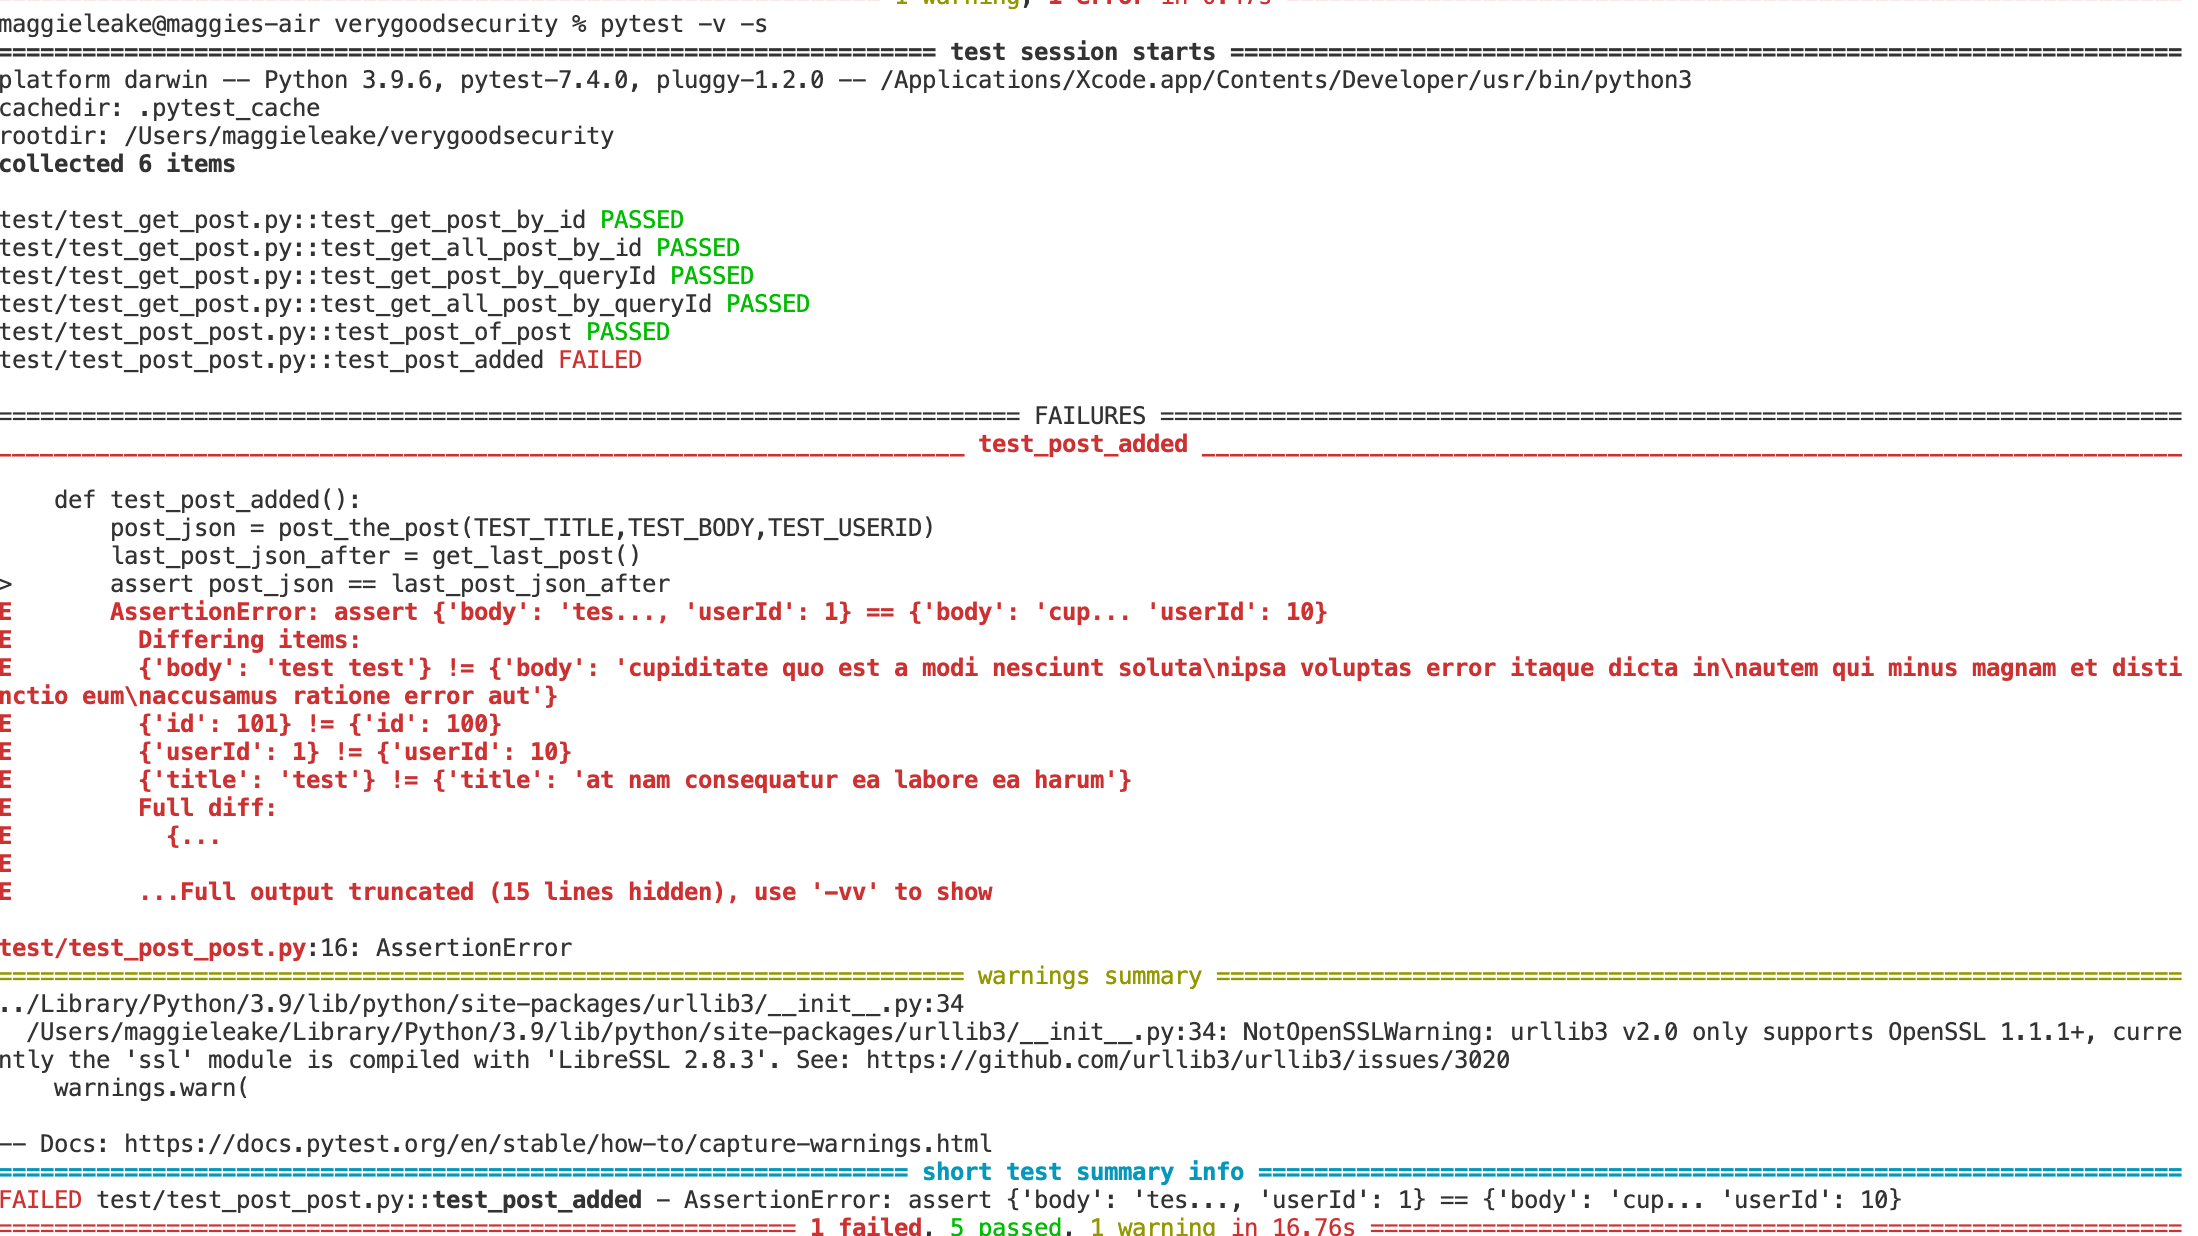
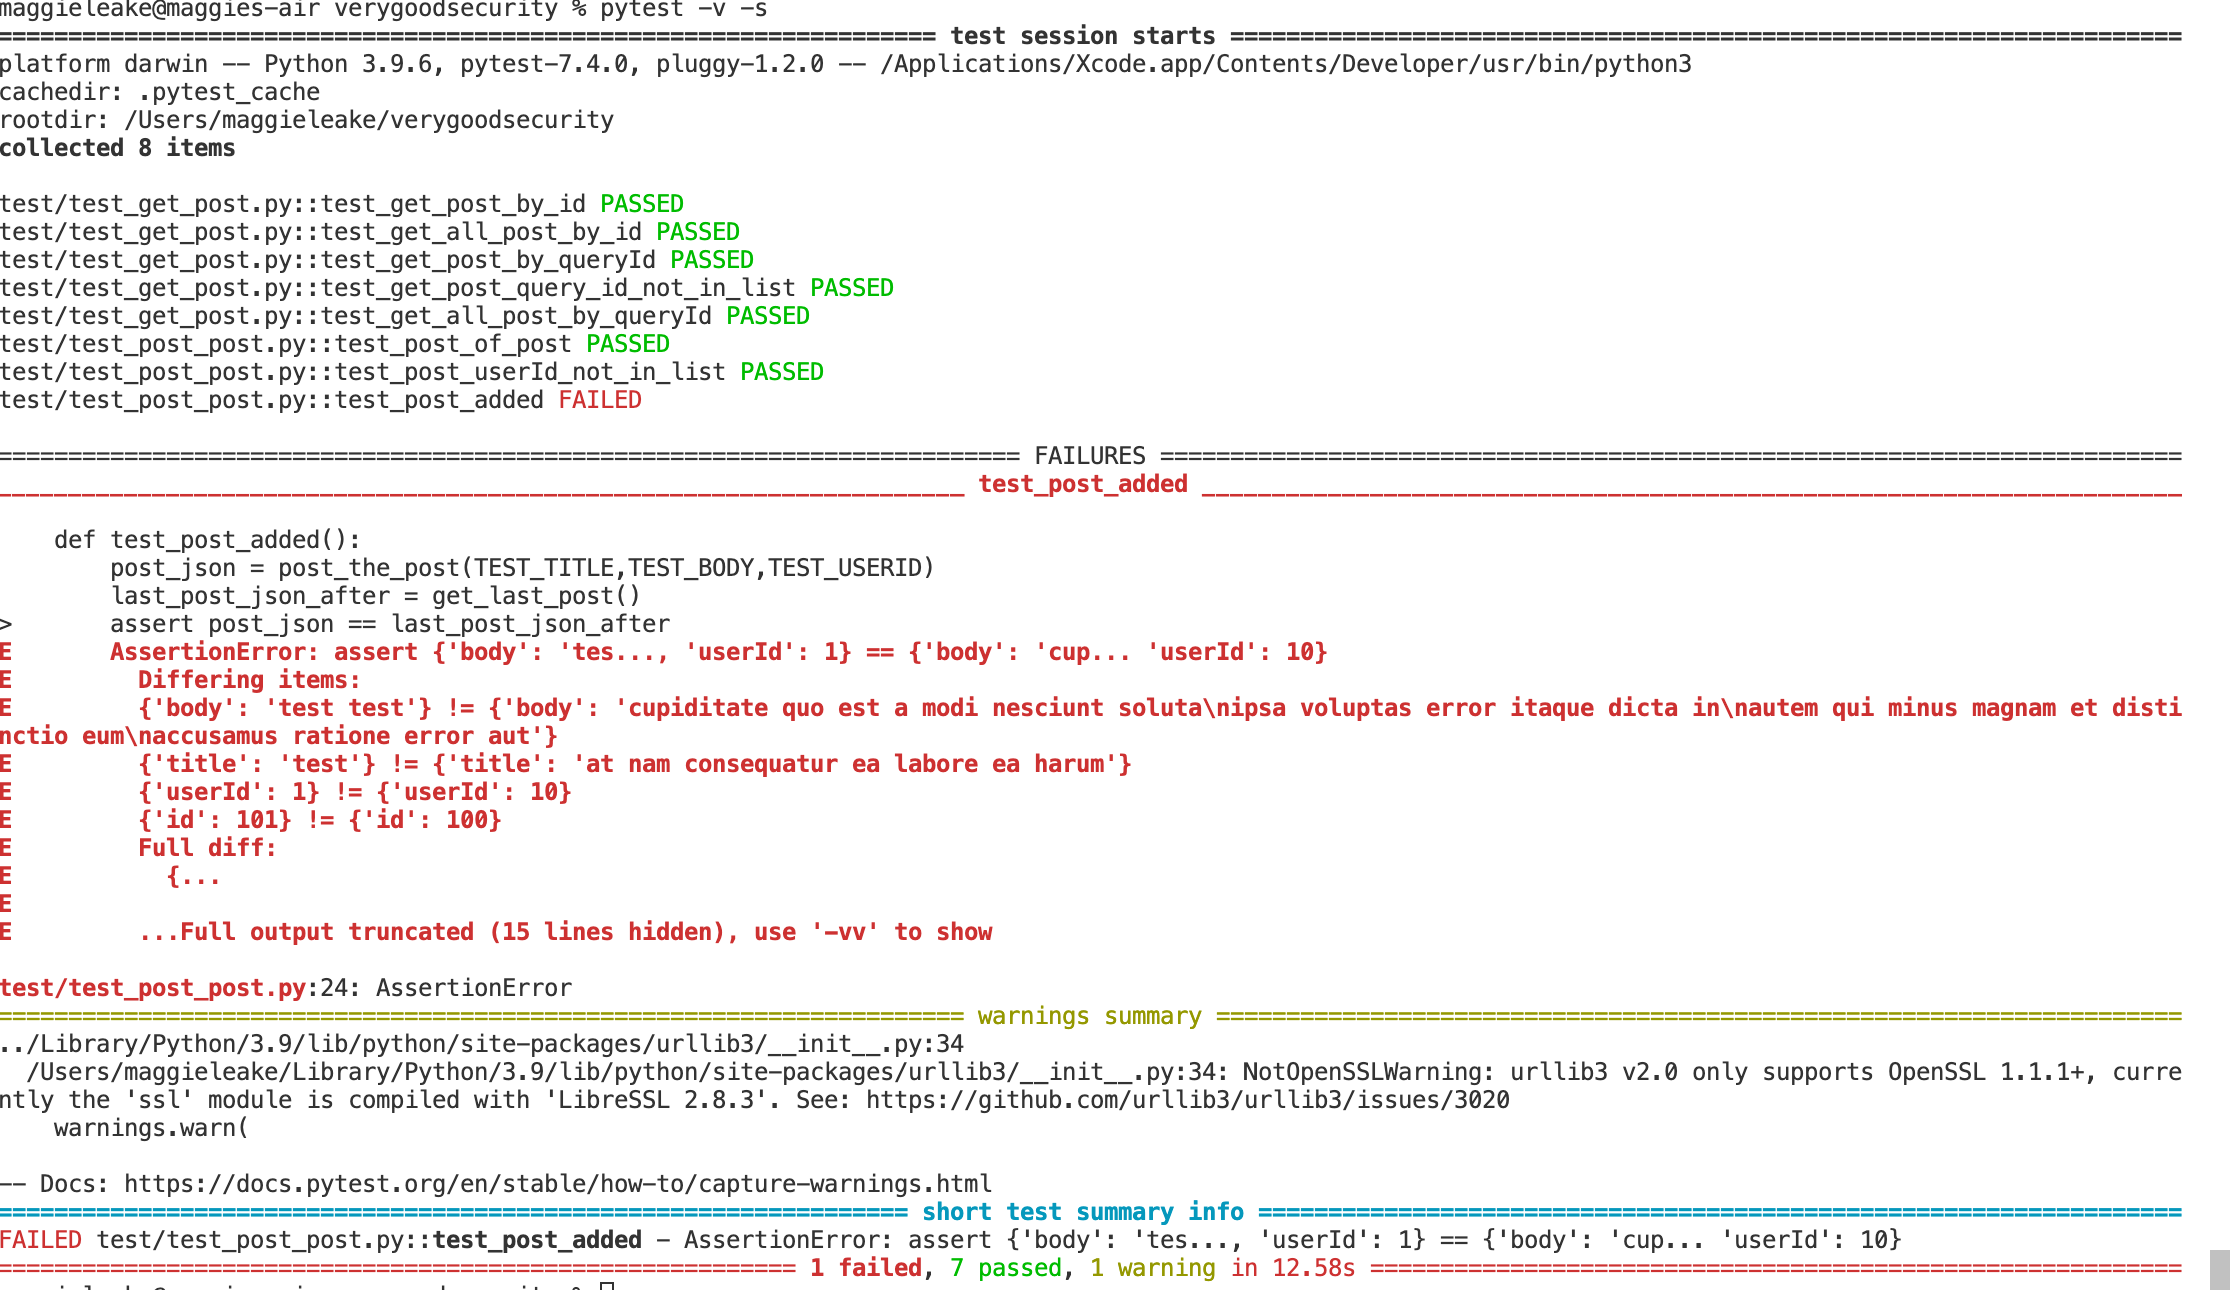
added negative tests to get and post

Changed region(s): [[0.0, 0.0, 0.99, 0.6764], [0.0, 0.7071, 1.0, 1.0], [0.0, 0.6456, 0.0309, 0.6764]]

diff --git a/test/test_get_post.py b/test/test_get_post.py
@@ -1,4 +1,4 @@
-from src.static_values import ID, BODY, SIZE_OF_USERID_1, TITLE, TEST_BODY_HARDCODED, TEST_ID, TEST_TITLE_HARDCODED, TEST_USERID, TITLE, USERID
+from src.static_values import ID, BODY, SIZE_OF_USERID_1, TEST_USERID_NOT_IN_POSTS, TITLE, TEST_BODY_HARDCODED, TEST_ID, TEST_TITLE_HARDCODED, TEST_USERID, TITLE, USERID
 from src.framework import get_all_posts, get_post_by_id, get_post_by_query_id
 
 def test_get_post_by_id():
@@ -19,6 +19,10 @@ def test_get_post_by_queryId():
     json_of_query_from_call_1 = get_post_by_query_id(TEST_USERID) 
     assert len(json_of_query_from_call_1) == SIZE_OF_USERID_1
 
+def test_get_post_query_id_not_in_list():
+    json_of_query_from_call_1 = get_post_by_query_id(TEST_USERID_NOT_IN_POSTS) 
+    assert len(json_of_query_from_call_1) == 0 
+    
 def test_get_all_post_by_queryId():
     json_of_results = get_all_posts()
     json_of_query_1 = [res for res in json_of_results if res[USERID] == 1]

diff --git a/test/test_post_post.py b/test/test_post_post.py
@@ -1,5 +1,5 @@
 
-from src.static_values import BODY, ID, TITLE, TEST_BODY, TEST_TITLE, TEST_USERID, USERID
+from src.static_values import BODY, ID, TEST_USERID_NOT_IN_POSTS, TITLE, TEST_BODY, TEST_TITLE, TEST_USERID, USERID
 from src.framework import get_last_post, post_the_post
 
 def test_post_of_post():
@@ -8,6 +8,14 @@ def test_post_of_post():
     assert post_json[TITLE] == TEST_TITLE
     assert post_json[BODY] == TEST_BODY 
     assert post_json[USERID] == TEST_USERID
+    assert post_json[ID] == last_post_json_before[ID]+1
+
+def test_post_userId_not_in_list():
+    last_post_json_before = get_last_post()
+    post_json = post_the_post(TEST_TITLE, TEST_BODY,TEST_USERID_NOT_IN_POSTS)
+    assert post_json[TITLE] == TEST_TITLE
+    assert post_json[BODY] == TEST_BODY 
+    assert post_json[USERID] == TEST_USERID_NOT_IN_POSTS
     assert post_json[ID] == last_post_json_before[ID]+1
 
 def test_post_added():

diff --git a/src/static_values.py b/src/static_values.py
@@ -14,3 +14,4 @@ TEST_BODY_HARDCODED =  "quia et suscipit\nsuscipit recusandae consequuntur exped
 TEST_TITLE = "test"
 TEST_BODY = "test test"
 SIZE_OF_USERID_1 = 10
+TEST_USERID_NOT_IN_POSTS = 11

diff --git a/README.md b/README.md
@@ -28,7 +28,13 @@ steps:
 1) call get requwst wirh params userId = 1 (expected result: a list of records that match userId)
 2) compare the size of the list in 1 with 10 (expected result: The size is 10)
 
-next compare user Id:
+test_get_post_by_queryId
+for this test we are validate the request with params userId = 1 returns 10
+steps:
+1) call get requwst wirh params userId = 11 (expected result: a list of records that match userId)
+2) compare the size of the list in 1 with 10 (expected result: The size is 0)
+
+test_post_added:
 For this test we compare that for a given userid we match the results when we do a get posts with userid = 1.
 steps:
 1) get all posts (expected results: all the posts, returns a status code of 200)
@@ -45,6 +51,13 @@ steps:
 3) compare the result in 2 with name = test, body = test test userId =1 and id = the post id in step 1 + 1(expected results: they all match)
 
 test_post_added
+For this test we are testing that user id that not get posts.
+steps:
+1) get the last post in posts (expected results: a post that is the last post on the list)
+2) post to the server with title = test, body = test test, userId = 11 (expected results: a post call with name,body,userId and id)
+3) compare the result in 2 with name = test, body = test test userId =1 and id = the post id in step 1 + 1(expected results: they all match)
+
+test_post_added
 For this test we do a post with a test values, then compares them to the last one add to the list which should match.   This is failing due to the list not updating with the value from the post.  This may or may not be a bug due to the way the setup is.  The post is not being added.  This is an issue which I would then discuss with the developers
 steps:
 1) post to the server with title = test, body = test test, userId = 1 (expected results: a post call with name,body,userId and id)
@@ -52,4 +65,4 @@ steps:
 3) compare the results in step 2 to the results in step 4 (expected results: they match) (currently step 1 matches step 4, it appears not to be added to the list.  This may or may not be a bug)
 
 # the screenshots of the results
-![Alt text](/img/functionalTests.png?raw=true "getPostById.load-spec.ts")
+![Alt text](/img/functionalTests.png?raw=true "All the functional tests")
